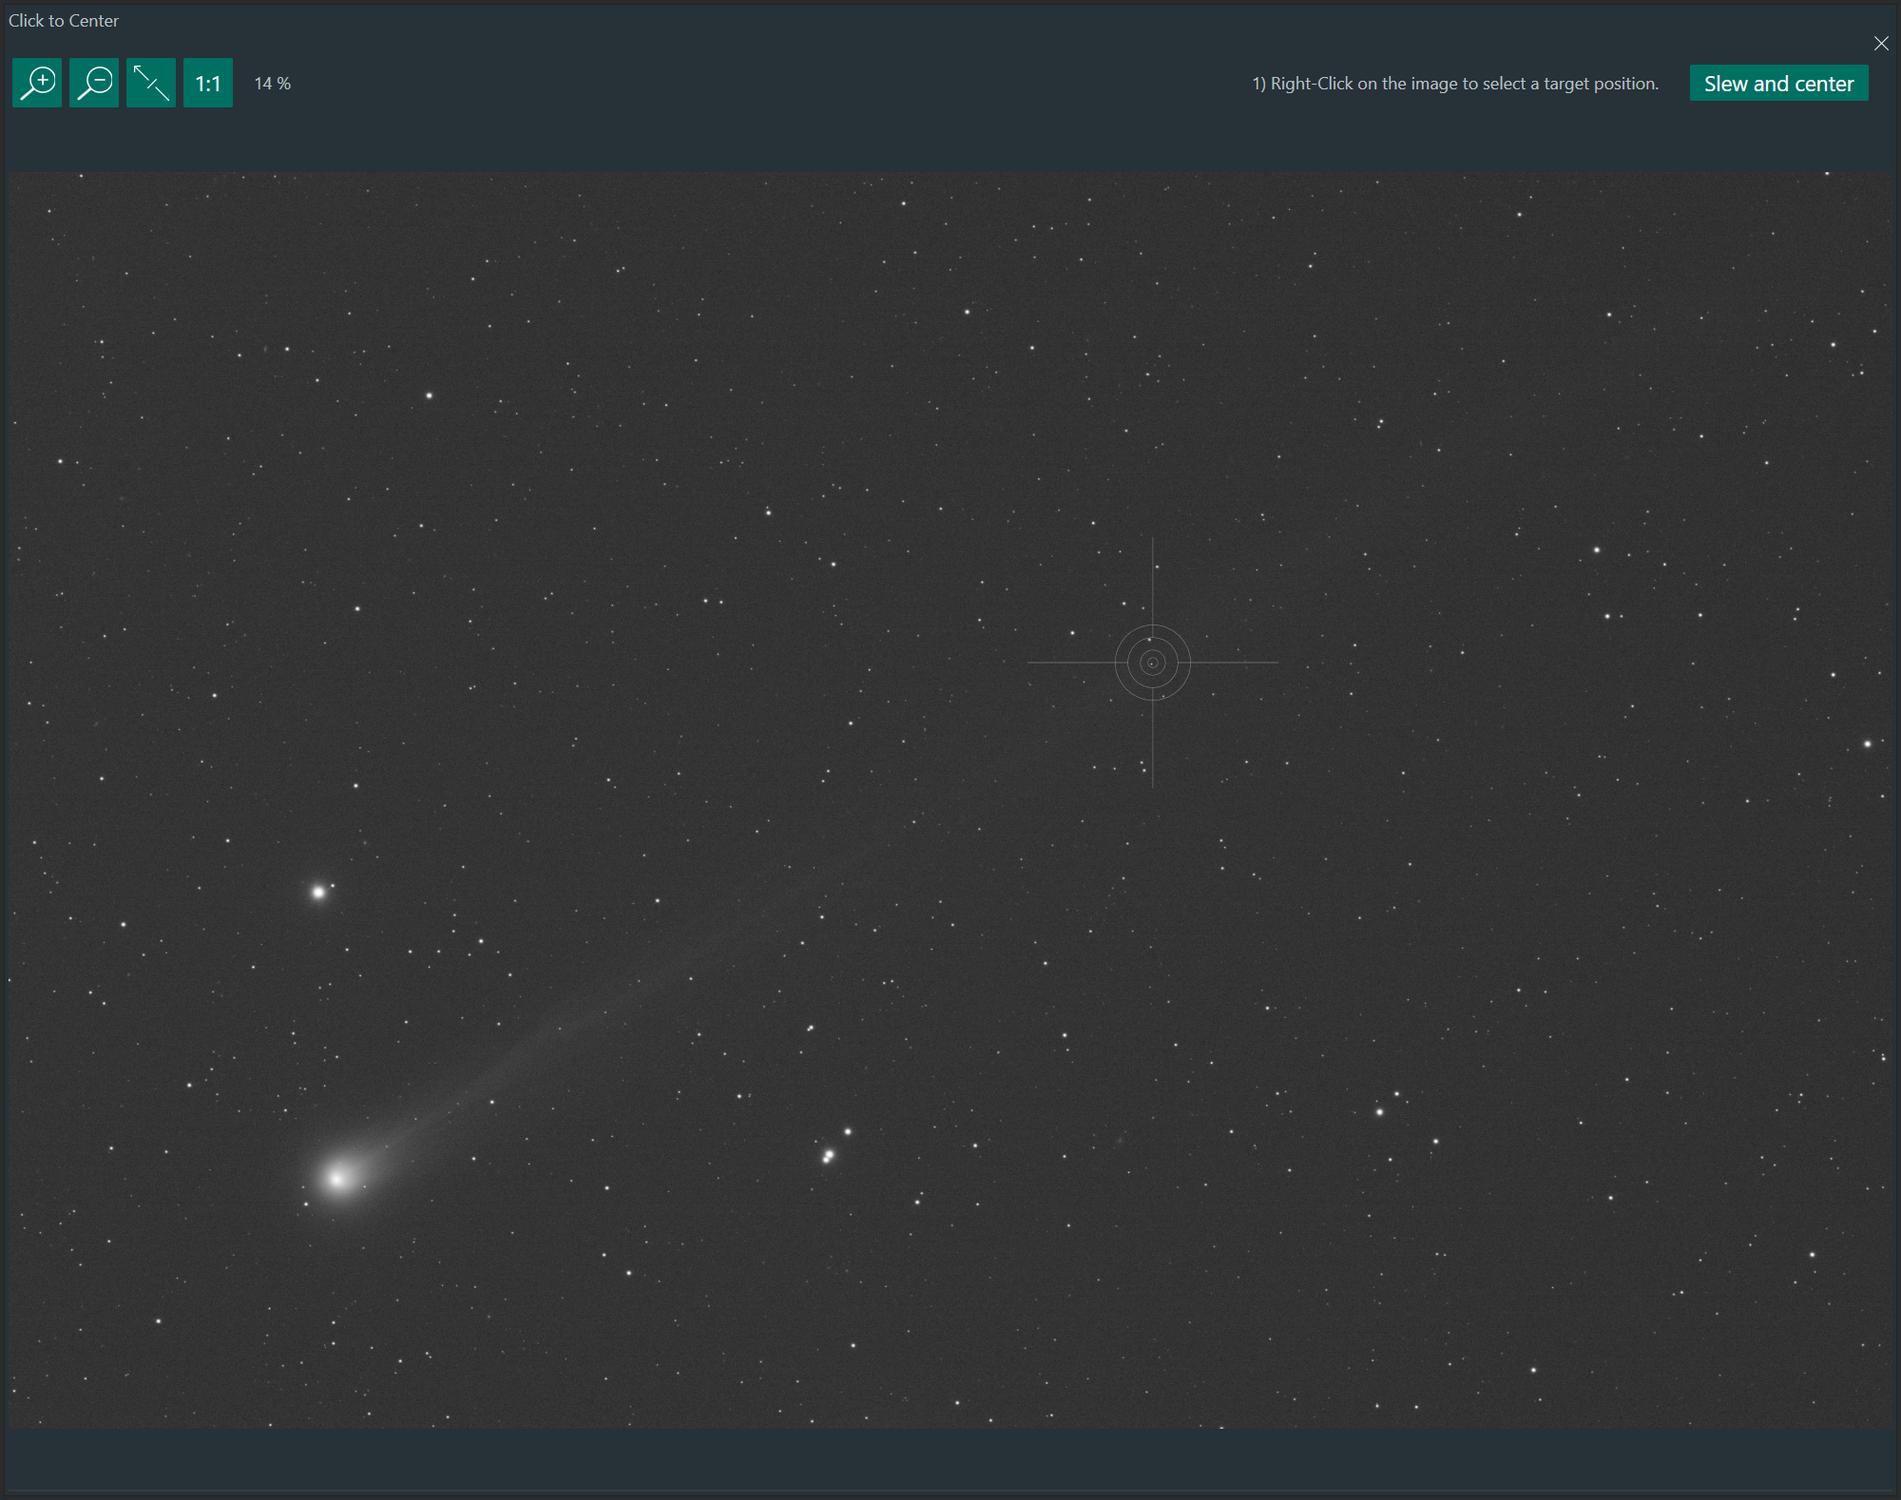
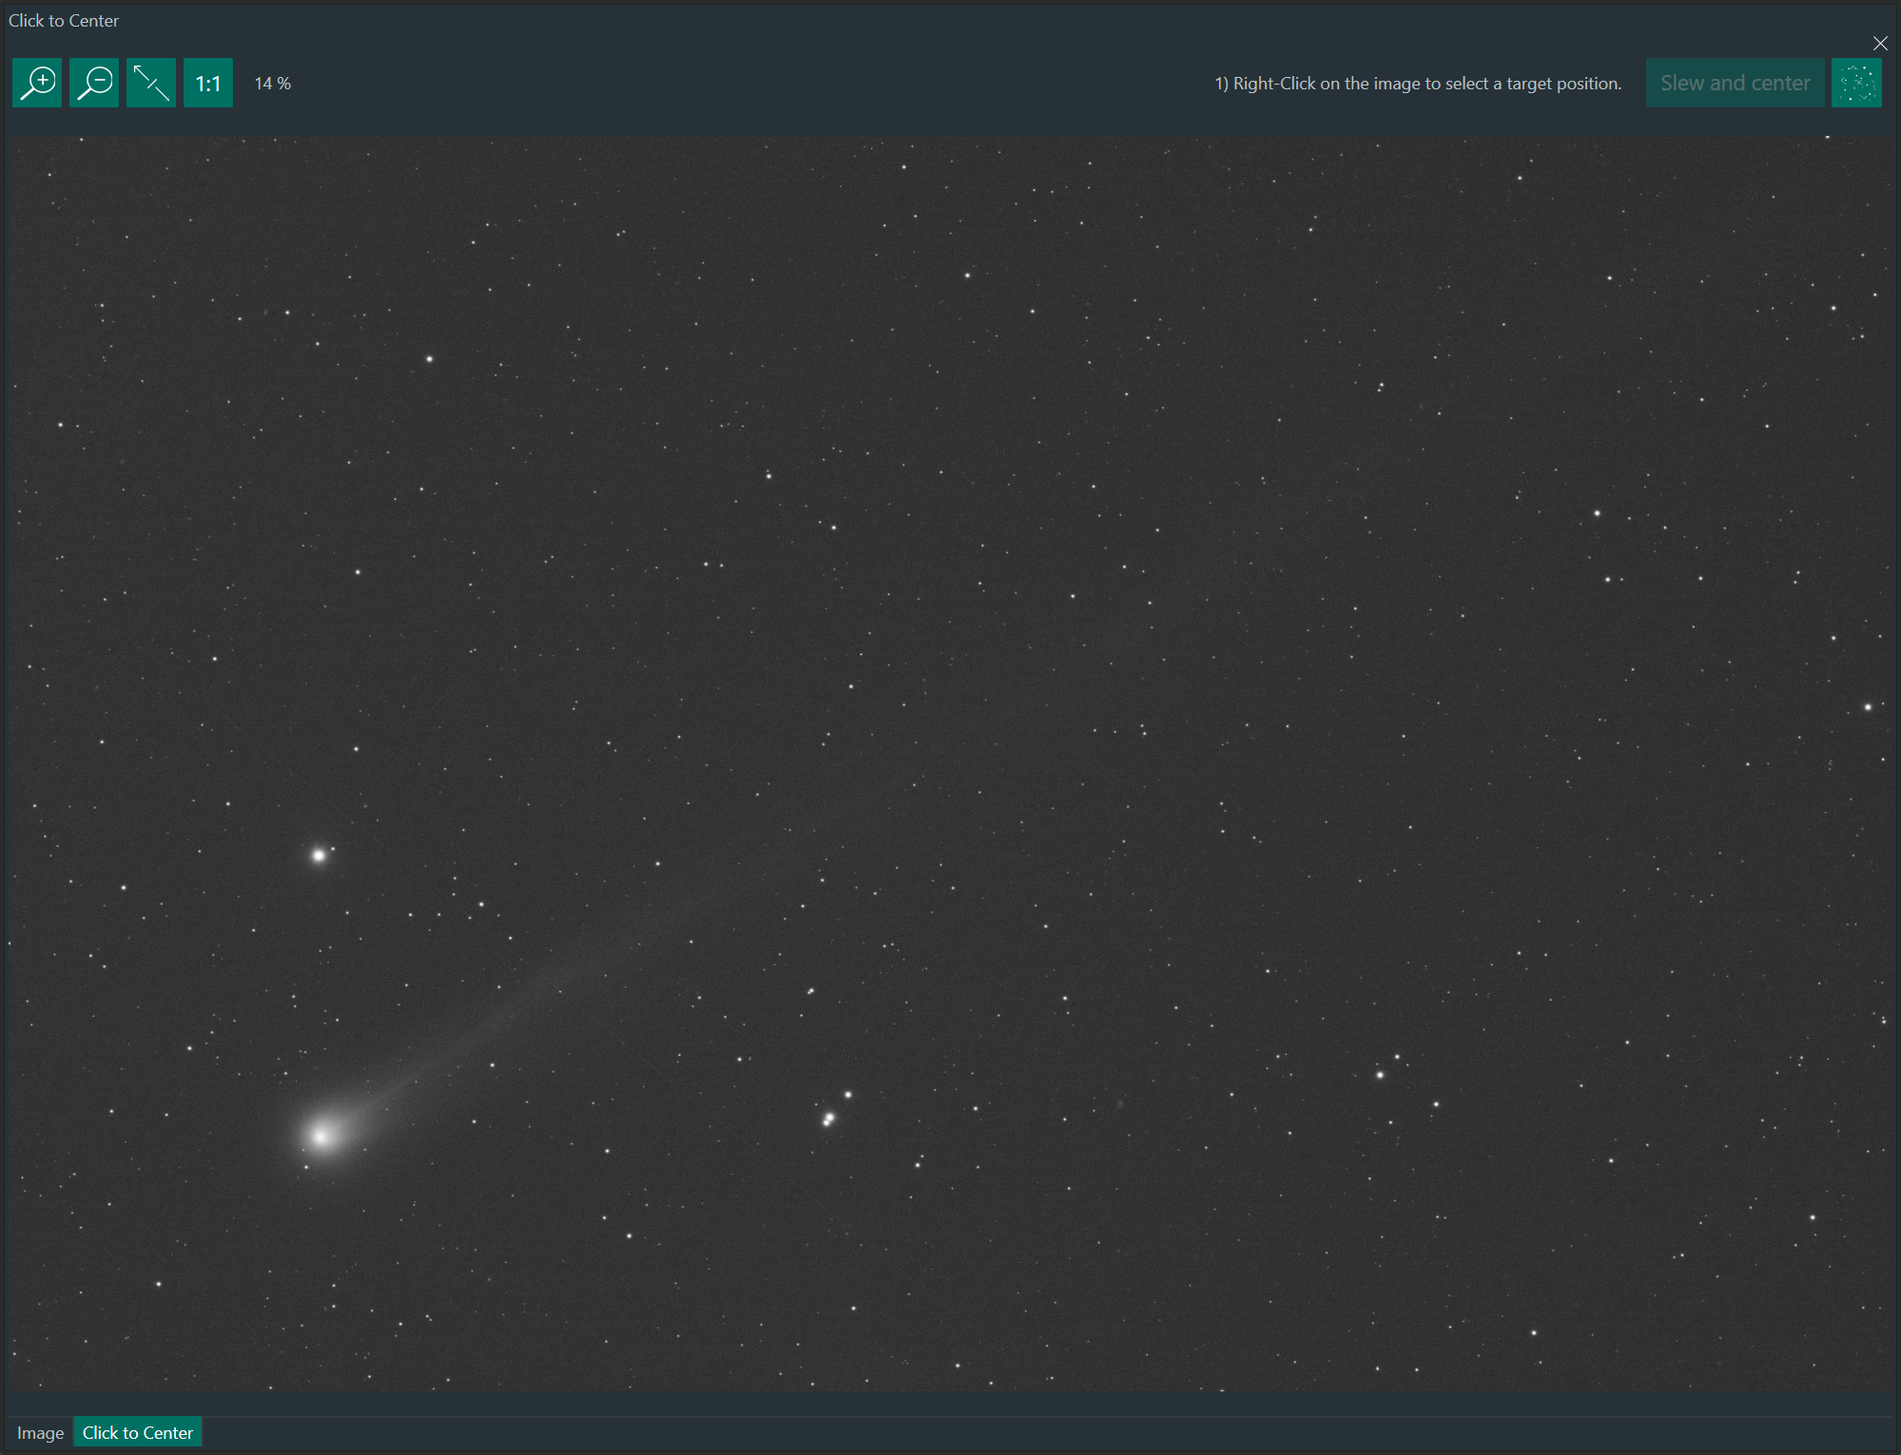
refactoring and new Send to Framing Assistant button

diff --git a/NINA.Plugin.ClickToCenter/ClickToCenterDockables/ClickToCenterDockableTemplates.xaml b/NINA.Plugin.ClickToCenter/ClickToCenterDockables/ClickToCenterDockableTemplates.xaml
@@ -11,25 +11,55 @@
         <wpfbase:ImageView Image="{Binding LastImage}" RightMouseButtonDownCommand="{Binding SetClickPointCommand}">
             <wpfbase:ImageView.ButtonHeaderContent>
                 <StackPanel
-                    Height="35"
+                    Height="40"
                     Margin="0,0,5,0"
                     VerticalAlignment="Center"
                     Orientation="Horizontal">
                     <TextBlock
-                        Margin="0,0,10,0"
+                        Margin="0,0,15,0"
                         VerticalAlignment="Center"
                         Text="1) Right-Click on the image to select a target position." />
                     <ninactrl:CancellableButton
-                        Height="25"
-                        Margin="12,0,12,0"
-                        Padding="10,0,10,0"
+                        Height="35"
+                        Margin="2.5"
+                        Padding="10,0,10,2"
                         HorizontalAlignment="Stretch"
                         ButtonText="{ns:Loc LblSlewCenter}"
                         CancelButtonImage="{StaticResource CancelSVG}"
                         CancelCommand="{Binding CancelCenterCommand}"
                         CancelToolTip="{ns:Loc LblCancel}"
                         Command="{Binding CenterCommand}"
-                        ToolTip="Slew and Center on the image point selected" />
+                        ToolTip="Slew and center telescope on the crosshair coordinates" />
+                    <ninactrl:CancellableButton
+                        Width="35"
+                        Height="35"
+                        Margin="2.5"
+                        Padding="10,0,10,2"
+                        HorizontalAlignment="Stretch"
+                        ButtonImage="{StaticResource FocusAssistantSVG}"
+                        CancelButtonImage="{StaticResource CancelSVG}"
+                        CancelCommand="{Binding CancelCenterCommand}"
+                        CancelToolTip="{ns:Loc LblCancel}"
+                        Command="{Binding SendCoordinatesToFramingAssistantCommand}"
+                        ToolTip="Send coordinates to the Framing Assistant" />
+                    <!--
+                    <Button
+                        Width="35"
+                        Height="35"
+                        Margin="2.5"
+                        VerticalAlignment="Center"
+                        HorizontalContentAlignment="Right"
+                        Command="{Binding SendCoordinatesToFramingAssistantCommand}"
+                        ToolTip="">
+                        <Grid>
+                            <Path
+                                Margin="5"
+                                Data="{StaticResource FocusAssistantSVG}"
+                                Fill="{StaticResource ButtonForegroundBrush}"
+                                Stretch="Uniform" />
+                        </Grid>
+                    </Button>
+                    -->
                 </StackPanel>
             </wpfbase:ImageView.ButtonHeaderContent>
             <wpfbase:ImageView.ImageAreaContent>

diff --git a/NINA.Plugin.ClickToCenter/ClickToCenterDockables/ClickToCenterDockable.cs b/NINA.Plugin.ClickToCenter/ClickToCenterDockables/ClickToCenterDockable.cs
@@ -1,6 +1,8 @@
 using CommunityToolkit.Mvvm.Input;
 using NINA.Astrometry;
+using NINA.Core.Enum;
 using NINA.Core.Model;
+using NINA.Core.MyMessageBox;
 using NINA.Core.Utility;
 using NINA.Core.Utility.Notification;
 using NINA.Core.Utility.WindowService;
@@ -12,12 +14,14 @@ using NINA.PlateSolving;
 using NINA.Profile.Interfaces;
 using NINA.Sequencer.SequenceItem.Platesolving;
 using NINA.WPF.Base.Interfaces.Mediator;
+using NINA.WPF.Base.Interfaces.ViewModel;
 using NINA.WPF.Base.ViewModel;
 using System;
 using System.ComponentModel.Composition;
 using System.Threading;
 using System.Threading.Tasks;
 using System.Windows;
+using System.Windows.Input;
 using System.Windows.Media.Imaging;
 using RelayCommand = CommunityToolkit.Mvvm.Input.RelayCommand;
 
@@ -35,6 +39,8 @@ namespace NINA.Plugin.ClickToCenter.ClickToCenterDockables {
         private readonly IDomeMediator domeMediator;
         private readonly IDomeFollower domeFollower;
         private readonly IGuiderMediator guiderMediator;
+        private readonly IFramingAssistantVM framingAssistantVM;
+        private readonly IApplicationMediator applicationMediator;
 
         // State
         private CancellationTokenSource? _centerCts;
@@ -65,7 +71,9 @@ namespace NINA.Plugin.ClickToCenter.ClickToCenterDockables {
             IFilterWheelMediator filterWheelMediator,
             IDomeMediator domeMediator,
             IDomeFollower domeFollower,
-            IGuiderMediator guiderMediator) : base(profileService) {
+            IGuiderMediator guiderMediator,
+            IFramingAssistantVM framingAssistantVM,
+            IApplicationMediator applicationMediator) : base(profileService) {
 
             this.profileService = profileService;
             this.imagingMediator = imagingMediator;
@@ -76,7 +84,8 @@ namespace NINA.Plugin.ClickToCenter.ClickToCenterDockables {
             this.domeMediator = domeMediator;
             this.domeFollower = domeFollower;
             this.guiderMediator = guiderMediator;
-
+            this.framingAssistantVM = framingAssistantVM;
+            this.applicationMediator = applicationMediator;
             // This will reference the resource dictionary to import the SVG graphic and assign it as the icon for the header bar
             var dict = new ResourceDictionary();
             dict.Source = new Uri("NINA.Plugin.ClickToCenter;component/ClickToCenterDockables/ClickToCenterDockableTemplates.xaml", UriKind.RelativeOrAbsolute);
@@ -90,23 +99,16 @@ namespace NINA.Plugin.ClickToCenter.ClickToCenterDockables {
                 execute: CancelCenter,
                 canExecute: () => _centerCts is not null && !_centerCts.IsCancellationRequested);
 
+            SendCoordinatesToFramingAssistantCommand = new AsyncCommand<bool>(_ => SendCoordinatesToFramingAssistant(), _ => CanSend());
+
             imagingMediator.ImagePrepared += ImagingMediator_ImagePrepared;
 
         }
 
-        //public IProgress<ApplicationStatus> Progress {
-        //    get {
-        //        if (progress == null) {
-        //            progress = new Progress<ApplicationStatus>();
-        //        }
-        //        return progress;
-        //    }
-        //}
-
         public RelayCommand<object> SetClickPointCommand { get; }
         public AsyncCommand<bool> CenterCommand { get; }
         public RelayCommand CancelCenterCommand { get; }
-
+        public ICommand SendCoordinatesToFramingAssistantCommand { get; private set; }
         internal IRenderedImage LastRenderedImage {
             get => _lastRenderedImage;
             private set {
@@ -188,14 +190,18 @@ namespace NINA.Plugin.ClickToCenter.ClickToCenterDockables {
                 }
             }
         }
-
+        
         private bool CanCenter() {
             return !IsBusy && LastRenderedImage != null &&
                    cameraMediator?.GetInfo()?.Connected == true &&
                    telescopeMediator?.GetInfo()?.Connected == true &&
                    ClickX >= 0 && ClickY >= 0;
         }
-      
+
+        private bool CanSend() {
+            return LastRenderedImage != null && LastImage != null;
+        }
+
         private void ImagingMediator_ImagePrepared(object sender, ImagePreparedEventArgs e) {
 
             if (e?.RenderedImage?.Image is null) return;
@@ -231,56 +237,82 @@ namespace NINA.Plugin.ClickToCenter.ClickToCenterDockables {
 
         }
 
+        private async Task<bool> SendCoordinatesToFramingAssistant() {
+            
+            _centerCts?.Dispose();
+            _centerCts = new CancellationTokenSource();
+
+            try {
+                bool useCrosshairCoordinates = false;
+
+                if (HasClickPoint) {
+                    var choice = MyMessageBox.Show(
+                        "Send the image center (No) or the crosshair (Yes) coordinates to Framing Assistant?",
+                        "Send coordinates to Framing Assistant",
+                        MessageBoxButton.YesNo, defaultresult: MessageBoxResult.Yes);
+
+                    useCrosshairCoordinates = (choice == MessageBoxResult.Yes);
+                }
+
+                await PlateSolveCurrentImage(_centerCts.Token);
+
+                if (!plateSolveStatusVM.PlateSolveResult.Success) return false;
+
+                var targetCoordinates = plateSolveStatusVM.PlateSolveResult.Coordinates;
+
+                if (useCrosshairCoordinates) {
+                    if (!ShiftCoordinatesFromPixelOffset(out Coordinates targetShiftedCoordinates)) return false;
+                    targetCoordinates = targetShiftedCoordinates;
+                    
+                }
+
+                DeepSkyObject targetDSO = new DeepSkyObject(string.Empty, targetCoordinates, string.Empty,
+                    profileService.ActiveProfile.AstrometrySettings.Horizon);
+                applicationMediator.ChangeTab(ApplicationTab.FRAMINGASSISTANT);
+                return await framingAssistantVM.SetCoordinates(targetDSO);
+
+            } catch (OperationCanceledException) {
+                Notification.ShowInformation("Send to Framing Assistant cancelled.", TimeSpan.FromSeconds(5));
+                Logger.Info("Send to Framing Assistant cancelled.");
+                return false;
+            } catch (Exception ex) {
+                Logger.Error(ex);
+                Notification.ShowError(ex.Message);
+                return false;
+            } finally {
+                ResetCrosshair();
+            }
+
+        }
         private async Task<bool> CenterAsync() {
 
             _centerCts?.Dispose();
             _centerCts = new CancellationTokenSource();
             CancelCenterCommand.NotifyCanExecuteChanged();
 
-            if (!CanCenter()) {
-                return false;
-            }
-
             IsBusy = true;
 
             try {
 
-                var renderedImage = LastRenderedImage;
-                if (renderedImage == null) {
-                    return false;
-                }
-
-                int width = LastImageWidth;
-                int height = LastImageHeight;
-
-                double clickX = ClickX;
-                double clickY = ClickY;
-
-                if (clickX < 0 || clickX >= width || clickY < 0 || clickY >= height) {
-                    Notification.ShowWarning("No target position set. Click on the image to define a target.");
-                    return false;
-                }
-                
                 await PlateSolveCurrentImage(_centerCts.Token);
 
-                if (plateSolveStatusVM.PlateSolveResult is null || plateSolveStatusVM.PlateSolveResult.Success == false) {
+                if (!plateSolveStatusVM.PlateSolveResult.Success) {
                     Notification.ShowError("Plate-solving failed. Click to Center stopped.");
                     return false;
                 }
 
                 PlateSolveResult solveResult = plateSolveStatusVM.PlateSolveResult;
 
-                double xOffset = (clickX - width / 2.0);
-                double yOffset = (clickY - height / 2.0);
+                if(!ShiftCoordinatesFromPixelOffset (out Coordinates targetCoords)) return false;
 
-                double deltaXDeg = AstroUtil.ArcsecToDegree(xOffset * solveResult.Pixscale);
-                double deltaYDeg = AstroUtil.ArcsecToDegree(yOffset * solveResult.Pixscale);
+                //double deltaXDeg = AstroUtil.ArcsecToDegree(xOffset * solveResult.Pixscale);
+                //double deltaYDeg = AstroUtil.ArcsecToDegree(yOffset * solveResult.Pixscale);
 
-                Coordinates targetCoords = solveResult.Coordinates.Shift(deltaXDeg, deltaYDeg, /* solveResult.PositionAngle*/ solveResult.Orientation ,
-                    Coordinates.ProjectionType.Gnomonic);
+                //Coordinates targetCoords = solveResult.Coordinates.Shift(deltaXDeg, deltaYDeg,solveResult.Orientation ,
+                //    Coordinates.ProjectionType.Gnomonic);
                 
-                Logger.Info($"Pixel offset from image center X: {Math.Round(clickX,3)}; Y: {Math.Round(clickY, 3)} - target coordinates: RA: {targetCoords.RAString}; DEC: {targetCoords.DecString}; Epoch: {targetCoords.Epoch}");
-                
+                Logger.Info($"Pixel offset from image center X: {Math.Round(ClickX,3)}; Y: {Math.Round(ClickY, 3)} - target coordinates: RA: {targetCoords.RAString}; DEC: {targetCoords.DecString}; Epoch: {targetCoords.Epoch}");
+
                 bool centered = await Center(targetCoords, _centerCts.Token);
                 
                 return centered;
@@ -294,15 +326,59 @@ namespace NINA.Plugin.ClickToCenter.ClickToCenterDockables {
                 Notification.ShowError(ex.Message);
                 return false;
             } finally {
-                HasClickPoint = false;
-                ClickX = -1; // reset click points
-                ClickY = -1;
-                _centerCts?.Dispose();
-                _centerCts = null;
-                CancelCenterCommand.NotifyCanExecuteChanged();
-                IsBusy = false;
+                ResetCrosshair();
             }
 
+        }
+
+        private void ResetCrosshair() {
+            HasClickPoint = false;
+            ClickX = -1;
+            ClickY = -1;
+            _centerCts?.Dispose();
+            _centerCts = null;
+            CancelCenterCommand.NotifyCanExecuteChanged();
+            RaisePropertyChanged(nameof(CanCenter));
+            RaisePropertyChanged(nameof(CanSend));
+            IsBusy = false;
+        }
+
+        private bool ShiftCoordinatesFromPixelOffset(out Coordinates shiftedCoordinates) {
+
+            shiftedCoordinates = null;
+
+            if (LastImageWidth == 0 || LastImageHeight == 0) return false;
+
+            var plateSolveResult = plateSolveStatusVM?.PlateSolveResult;
+            if (plateSolveResult == null || !plateSolveResult.Success) {
+                return false;
+            }
+
+            int width = LastImageWidth;
+            int height = LastImageHeight;
+
+            double clickX = ClickX;
+            double clickY = ClickY;
+
+            // Wenn kein gültiger Klickpunkt gesetzt ist -> false + Warning (wie bisher)
+            //if (clickX < 0 || clickX >= width || clickY < 0 || clickY >= height) {
+            //    Notification.ShowWarning("No target position set. Click on the image to define a target.");
+            //    return false;
+            //}
+
+            double xOffsetPx = clickX - (width / 2.0);
+            double yOffsetPx = clickY - (height / 2.0);
+
+            double deltaXDeg = AstroUtil.ArcsecToDegree(xOffsetPx * plateSolveResult.Pixscale);
+            double deltaYDeg = AstroUtil.ArcsecToDegree(yOffsetPx * plateSolveResult.Pixscale);
+
+            shiftedCoordinates = plateSolveResult.Coordinates.Shift(
+                deltaXDeg,
+                deltaYDeg,
+                plateSolveResult.Orientation,
+                Coordinates.ProjectionType.Gnomonic);
+
+            return true;
         }
 
         private IWindowServiceFactory WindowServiceFactory {
@@ -378,6 +454,8 @@ namespace NINA.Plugin.ClickToCenter.ClickToCenterDockables {
             }
 
             CancelCenterCommand.NotifyCanExecuteChanged();
+            RaisePropertyChanged(nameof(CanCenter));
+            RaisePropertyChanged(nameof(CanSend));
         }
 
         private void OnSetClickPoint(object? p) {

diff --git a/NINA.Plugin.ClickToCenter/Properties/AssemblyInfo.cs b/NINA.Plugin.ClickToCenter/Properties/AssemblyInfo.cs
@@ -7,13 +7,13 @@ using System.Runtime.InteropServices;
 
 // [MANDATORY] The assembly versioning
 //Should be incremented for each new release build of a plugin
-[assembly: AssemblyVersion("1.0.0.1")]
-[assembly: AssemblyFileVersion("1.0.0.1")]
+[assembly: AssemblyVersion("1.1.0.1")]
+[assembly: AssemblyFileVersion("1.1.0.1")]
 
 // [MANDATORY] The name of your plugin
 [assembly: AssemblyTitle("Click To Center")]
 // [MANDATORY] A short description of your plugin
-[assembly: AssemblyDescription("A new dockable window for centering on a selected point in the image")]
+[assembly: AssemblyDescription("A new dockable window for slewing and centering the mount on a selected point in the image. Additionally the target coordinates can be send to the Framing Assistant tab.")]
 
 // The following attributes are not required for the plugin per se, but are required by the official manifest meta data
 
@@ -52,7 +52,8 @@ using System.Runtime.InteropServices;
 [assembly: AssemblyMetadata("AltScreenshotURL", "")]
 //[Optional] An in-depth description of your plugin
 [assembly: AssemblyMetadata("LongDescription", @"Select a target by right-clicking on the current image in the Click to Center dockable and hit slew and center.
-The plugin plate-solves the current image, converts the selected pixel position to RA/Dec coordinates, and runs a centering routine to slew/center the mount on the .")]
+The plugin plate-solves the current image, converts the selected pixel position to RA/Dec coordinates, and runs a centering routine to slew/center the telescope to these coordinates. 
+Additionally you can send the coordinates of the image center or the crosshair position to the framing wizard.")]
 
 // Setting ComVisible to false makes the types in this assembly not visible
 // to COM components.  If you need to access a type in this assembly from
